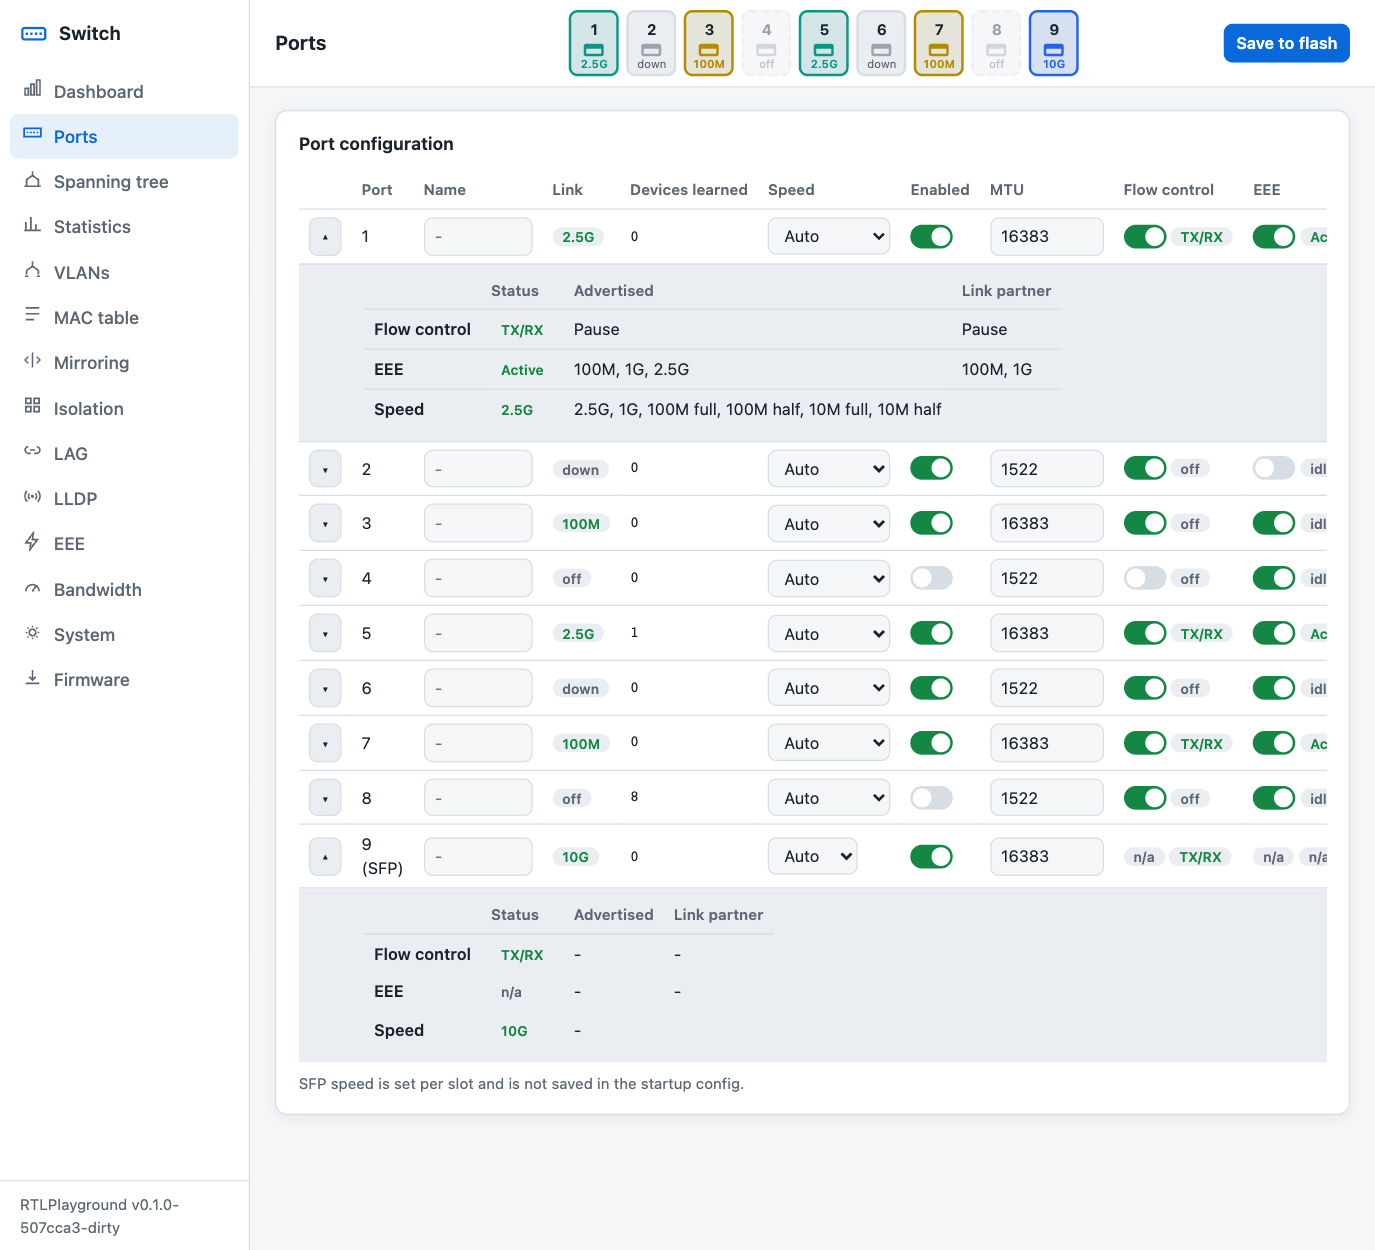
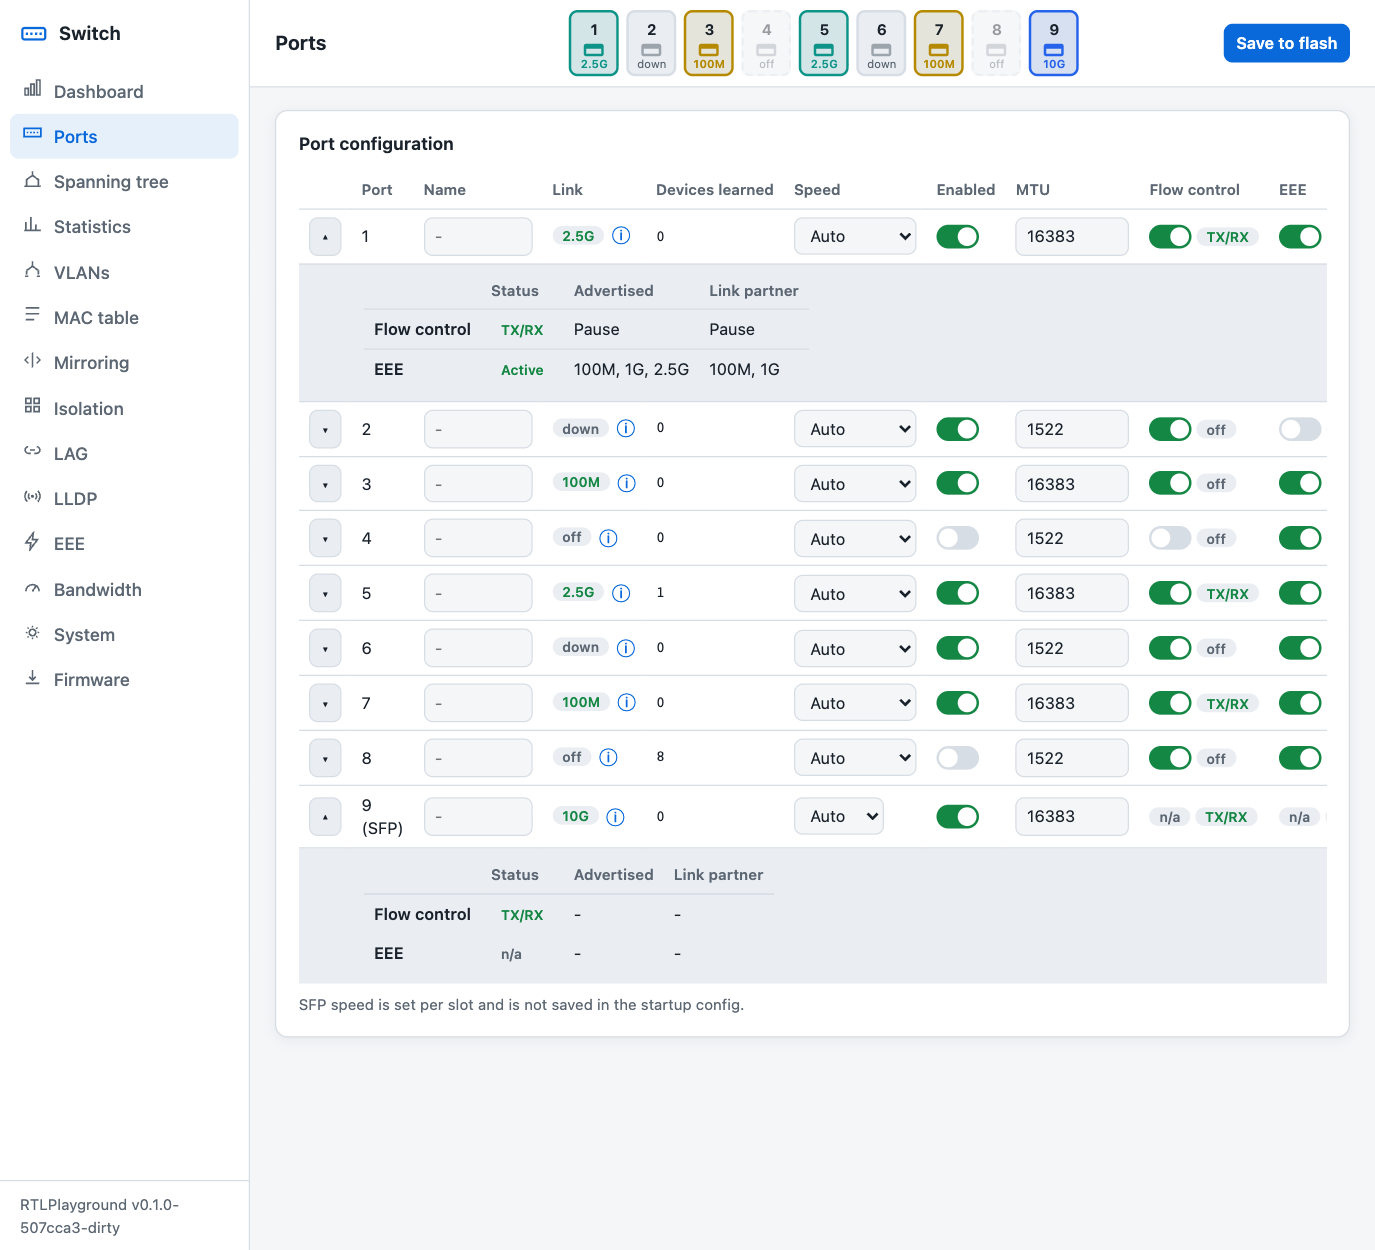
Mock-up: move advertised speeds to a link info pop-up

diff --git a/html/mockup.js b/html/mockup.js
@@ -182,7 +182,6 @@ function feat(p){
   return[
     {name:t("nav_fc"),sw:fcSw(p),st:fcNeg(p),adv:p.isSFP?"-":fcFlags(f&3),lp:p.isSFP?"-":fcFlags(f>>2&3)},
     {name:t("nav_eee"),sw:eeeSw(p),st:eeeSt(p),adv:p.isSFP?"-":eeeFlags(e.adv),lp:p.isSFP?"-":eeeFlags(e.lp)},
-    {name:t("pt_speed"),sw:null,st:linkBadge(p),adv:p.isSFP?"-":advSpeeds(p),lp:""},
   ];
 }
 // Desktop details: one row per feature, labels in the header
@@ -226,7 +225,7 @@ function card(p,extra){
   });
   return h("div",{style:"border:1px solid var(--bd);border-radius:8px;padding:10px 12px"},[
     h("div",{style:"display:flex;gap:8px;align-items:center;margin-bottom:8px"},[
-      h("b",{style:"white-space:nowrap",text:t("c_port")+" "+p.portNum+(p.isSFP?" (SFP)":"")}),h("span",{html:linkBadge(p)}),
+      h("b",{style:"white-space:nowrap",text:t("c_port")+" "+p.portNum+(p.isSFP?" (SFP)":"")}),h("span",{style:"white-space:nowrap"},[h("span",{html:linkBadge(p)}),infoBtn(p)]),
       h("span",{style:"flex:1"}),sw(p.enabled),h("button",{class:"ctl",text:t("c_apply")})]),g].concat(extra));
 }
 function cardList(fn){
@@ -270,13 +269,36 @@ VARIANTS.N=function(){
   cardList(function(p){return[h("div",{style:"border-top:1px solid var(--bd);padding-top:8px;margin-top:8px"},[advBtn(p)])]});
   modal(t("c_port")+" 1: Advanced",detailsList(S.ports[0],true),[h("button",{class:"pri",text:t("c_apply")})]);
 };
+// Link speed details: separate from flow control/EEE, behind an info button next to the link badge
+var LINKINFO=false;
+function linkTable(p){
+  var d=h("div");
+  var b=parseInt(p.adv||"0",2),n=["10M "+t("c_half"),"10M "+t("c_full"),"100M "+t("c_half"),"100M "+t("c_full"),"1G","2.5G"];
+  var top=h("div",{style:"display:grid;grid-template-columns:7.5em 1fr;gap:6px 10px;margin-bottom:10px"},[
+    h("span",{class:"mut small",text:t("c_link")}),h("span",{html:linkBadge(p)})]);
+  d.appendChild(top);
+  if(p.isSFP){d.appendChild(h("p",{class:"small mut",text:"SFP ports do not advertise speeds."}));return d}
+  var tb=h("table",{class:"t",style:"width:auto"}),r=tb.createTHead().insertRow();
+  [t("pt_speed"),t("e_adv")].forEach(function(s){r.appendChild(h("th",{text:s}))});
+  var bd=tb.createTBody();
+  for(var i=n.length-1;i>=0;i--){var tr=bd.insertRow();tr.insertCell().textContent=n[i];tr.insertCell().innerHTML=(b&(1<<i))?badge("\u2713","ok"):'<span class="mut">-</span>'}
+  d.appendChild(tb);
+  return d;
+}
+function infoBtn(p){
+  return h("button",{title:"Link details",style:"background:none;border:0;padding:0 0 0 6px;cursor:pointer;color:var(--ac);font-size:15px;vertical-align:middle",text:"\u24d8",
+    onclick:function(){modal(t("c_port")+" "+p.portNum+": "+t("c_link"),linkTable(p))}});
+}
+["F","G","M","N"].forEach(function(v){var f=VARIANTS[v];VARIANTS[v]=function(){LINKINFO=true;f()}});
+VARIANTS.FL=function(){VARIANTS.F();modal(t("c_port")+" 1: "+t("c_link"),linkTable(S.ports[0]))};
+VARIANTS.ML=function(){VARIANTS.M();modal(t("c_port")+" 1: "+t("c_link"),linkTable(S.ports[0]))};
 function fcFlags(b){return["Pause","Asym"].filter(function(s,i){return b&(1<<i)}).join(", ")||"-"}
 function mockStatus(){
   fakeData();updateStrip();
   S.ports.forEach(function(p){
     var i=p.portNum-1,el=$("plink"+i),mc=$("pmac"+i);
     if(mc)mc.textContent=parseInt(p.macs,16)&0x1fff;
-    if(el)el.innerHTML=linkBadge(p);
+    if(el){el.innerHTML=linkBadge(p);if(LINKINFO)el.appendChild(infoBtn(p))}
   });
 }
 function mock(v){
